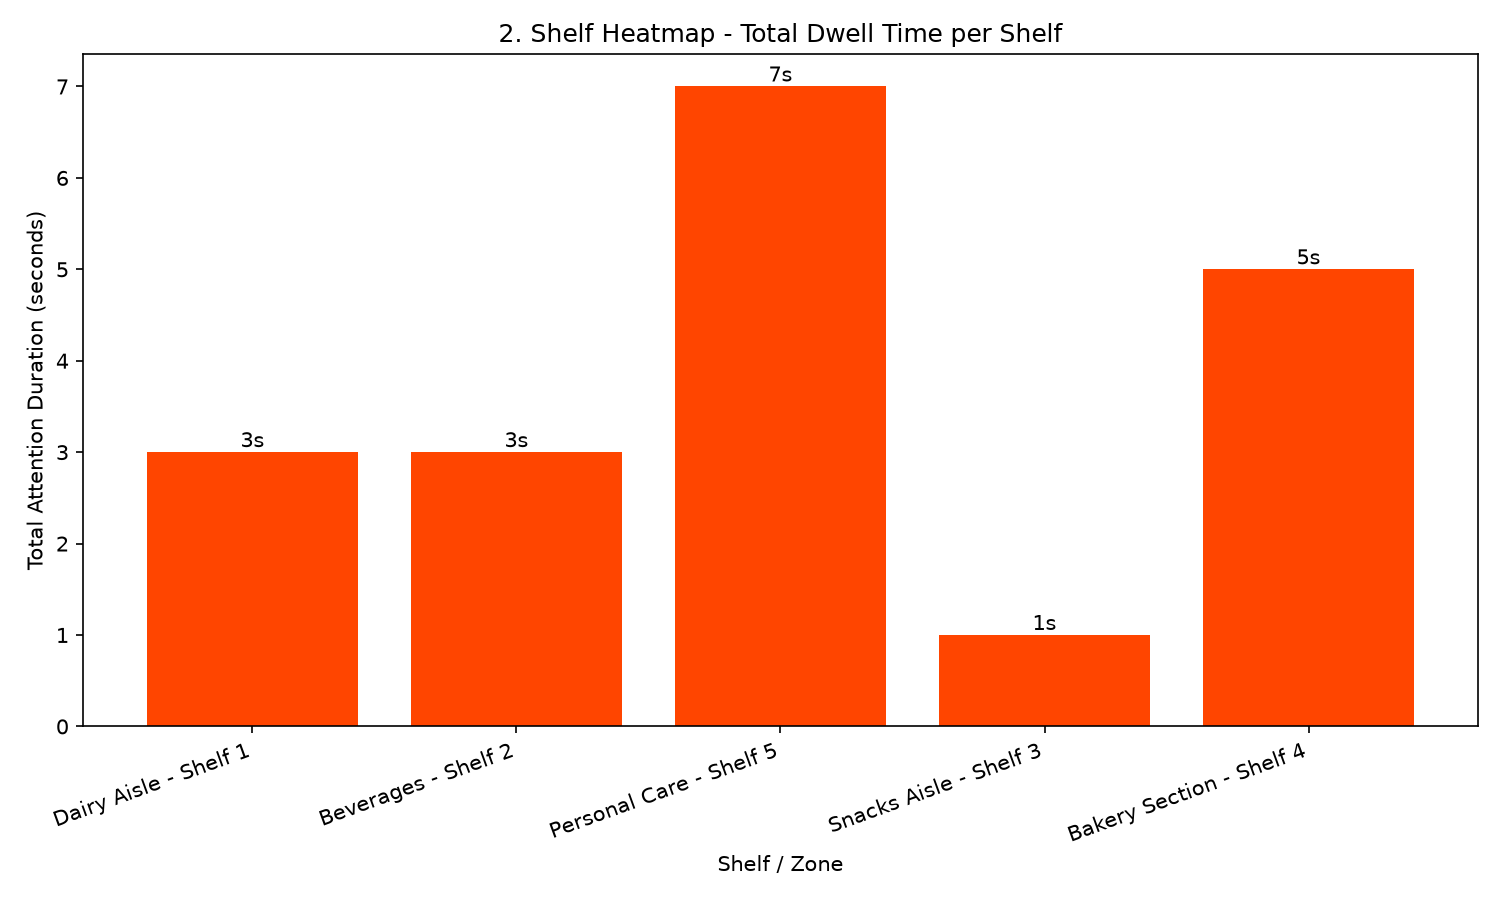
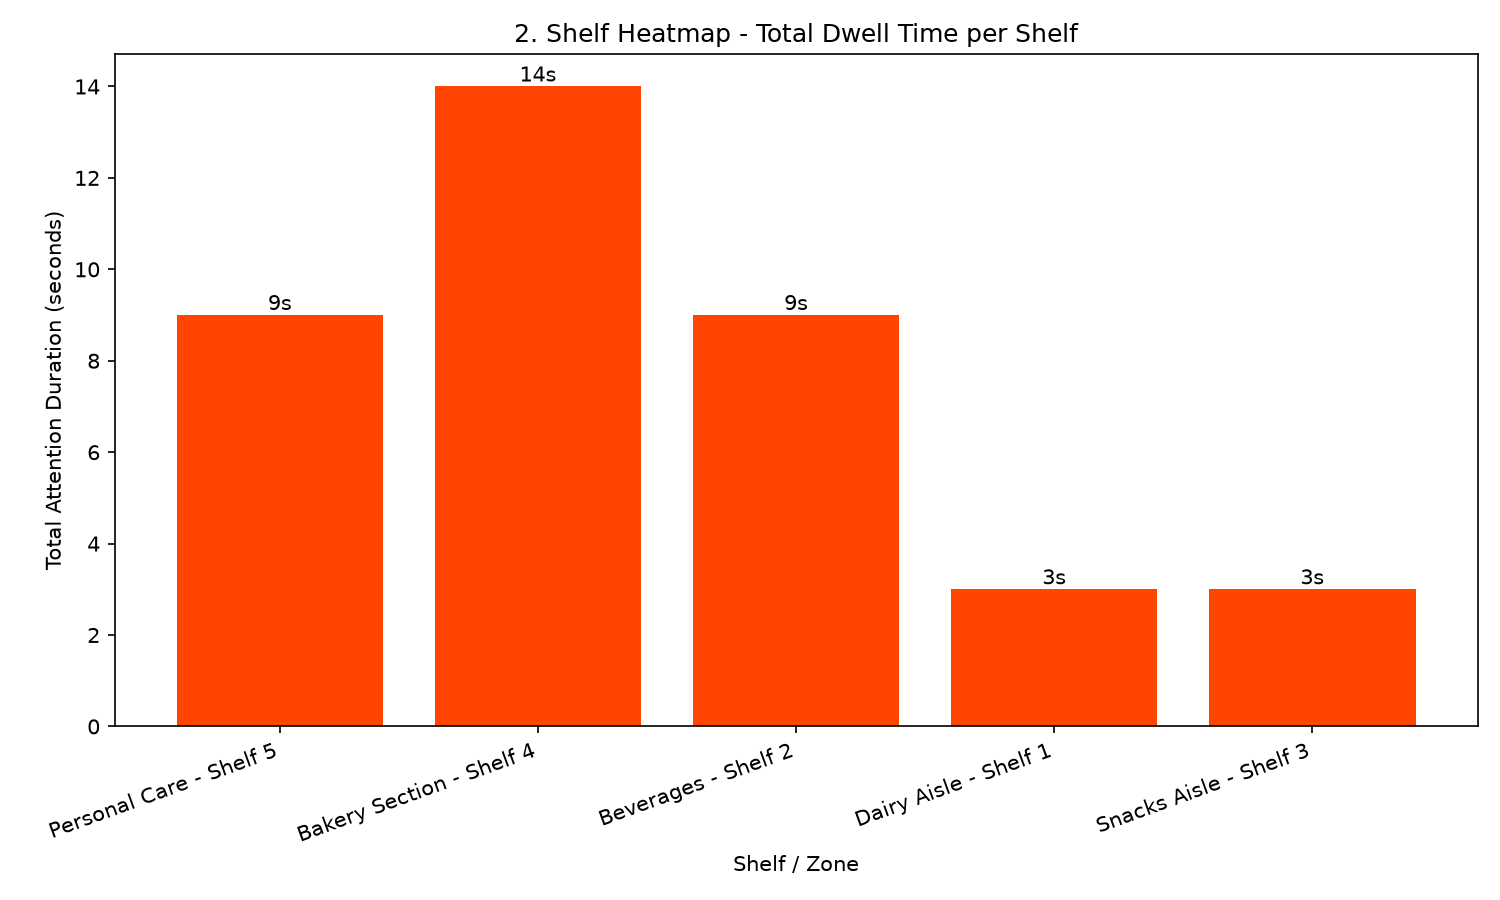
fixed and updated the video analysis section

diff --git a/Backend/main.py b/Backend/main.py
@@ -482,15 +482,15 @@ def analyze_video_full(file: UploadFile = File(...), clear_previous_data: bool =
             break
         frame_num += 1
 
-        # Skip frames for speed - process every 3rd frame only
-        if frame_num % 3 != 0:
+        # Skip fewer frames for better tracking continuity (every 2nd instead of every 3rd)
+        if frame_num % 2 != 0:
             continue
 
-        frame_small = cv2.resize(frame, (640, int(640 * frame.shape[0] / frame.shape[1])))
+        frame_small = cv2.resize(frame, (960, int(960 * frame.shape[0] / frame.shape[1])))
         scale_x = frame.shape[1] / frame_small.shape[1]
         scale_y = frame.shape[0] / frame_small.shape[0]
 
-        results = yolo_model.track(frame_small, persist=True, verbose=False, classes=[0])
+        results = yolo_model.track(frame_small, persist=True, verbose=False, classes=[0], tracker="bytetrack.yaml")
 
         # Only run face/eye detection every 10th processed frame - big speed gain
         run_attention_check = (frame_num // 3) % 10 == 0
@@ -527,6 +527,11 @@ def analyze_video_full(file: UploadFile = File(...), clear_previous_data: bool =
                     if prev["zone"] != zone or prev["attention"] != attention_status:
                         duration = (frame_num - prev["frame_start"]) / fps
 
+                        # Skip unrealistically short events - these are tracking noise, not real behavior
+                        if duration < 0.5:
+                            person_state[track_id] = {"zone": zone, "attention": attention_status, "frame_start": frame_num}
+                            continue
+
                         db2 = SessionLocal()
                         record = models.AttentionRecord(
                             person_track_id=track_id, zone=prev["zone"],
@@ -543,11 +548,11 @@ def analyze_video_full(file: UploadFile = File(...), clear_previous_data: bool =
 
                         interaction_type = None
                         if prev["attention"] == "Attentive":
-                            if duration >= 3:
+                            if duration >= 1.5:
                                 interaction_type = "Product Purchased (simulated - very long engagement)"
-                            elif duration >= 1.5:
+                            elif duration >= 0.7:
                                 interaction_type = "Product Picked Up (simulated)"
-                            elif duration >= 0.5:
+                            elif duration >= 0.2:
                                 interaction_type = "Product Viewed"
                             if len(zones_visited) >= 2 and prior_visits >= 2:
                                 interaction_type = "Product Compared (simulated - multiple shelf revisits)"
